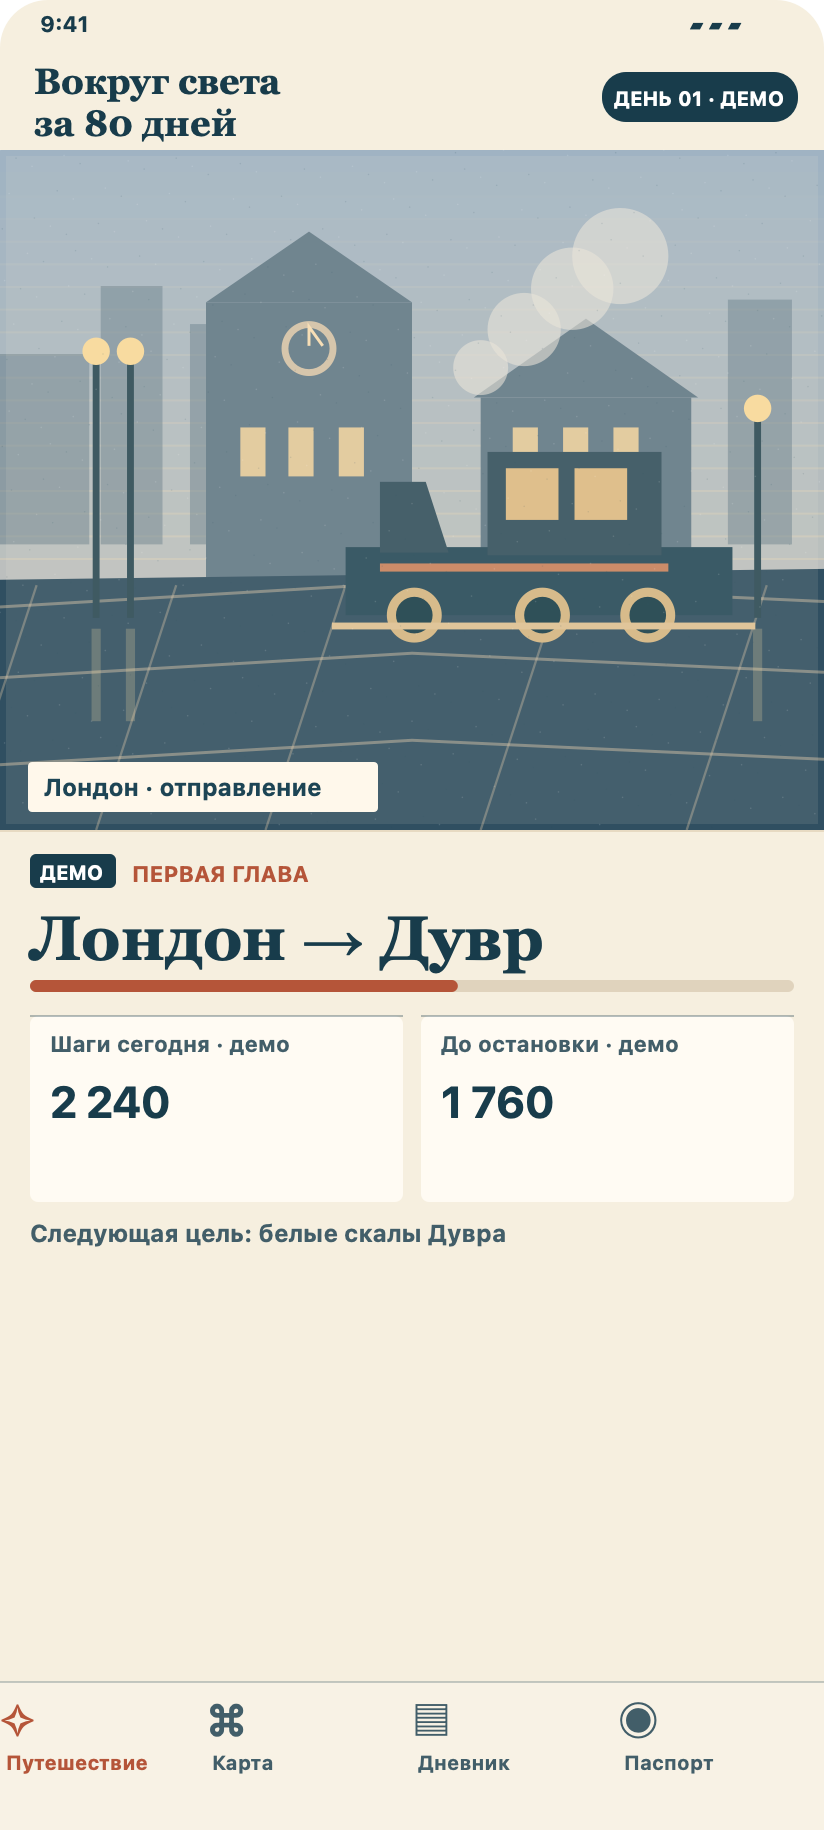
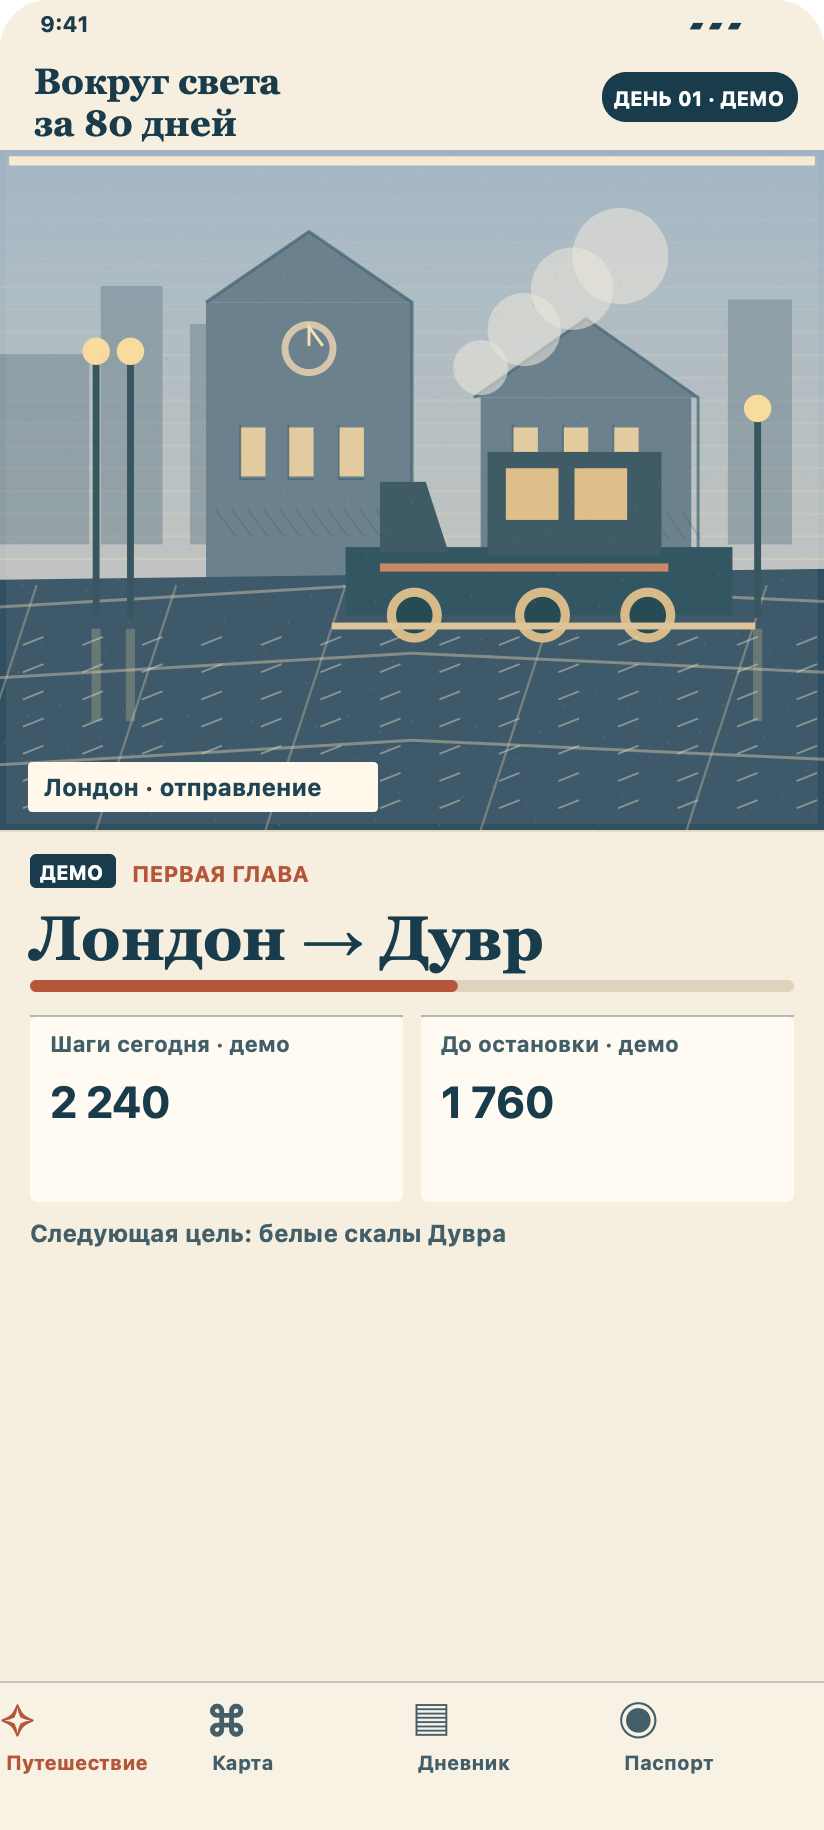
docs: distinguish London illustration treatments

Changed region(s): [[0.0, 0.0623, 1.0, 0.0934], [0.8192, 0.218, 0.8495, 0.3115], [0.4854, 0.1557, 0.5158, 0.2492]]

diff --git a/docs/design/p03/index.html b/docs/design/p03/index.html
@@ -118,25 +118,30 @@
         ${kind==='poster'?'<circle cx="279" cy="73" r="54" fill="#f9ca81" opacity=".85"/><path d="M279 4v22M279 122v22M210 73h22M326 73h22M228 22l16 16M316 108l16 16M229 123l16-16M315 38l17-17" stroke="#f8cf91" stroke-width="4" opacity=".6"/>':''}
         <path d="M0 113h39V67h31v46h16V83h27v30h34V71h21v42h28V90h20v23h34V69h25v44h26V86h22v27h37v137H0z" fill="${kind==='poster'?'#a84e3e':kind==='diorama'?'#809592':'#87909a'}" opacity=".65"/>
         <path d="M0 133h91V58h12V48h65V58h13v75h25v-29h9V89h77v15h10v29h58v66H0z" fill="${kind==='poster'?'#183c4c':kind==='diorama'?'#556a6c':'#4f6674'}" stroke="${kind==='book'?'#253f4d':'none'}" stroke-width="1.2"/>
+        ${kind==='diorama'?'<path d="M180 58l18-12v108l-18 4zM302 92l16-11v77l-16 1z" fill="#344e54"/><path d="M91 58l42-26 65 14-18 12zM207 91l47-30 64 20-16 11z" fill="#b6c6ba"/><path d="M88 155h110M207 155h110" stroke="#d6cfab" stroke-width="5"/>':''}
         <path d="M93 57l37-24 39 24M213 88l40-30 40 30" fill="none" stroke="${kind==='poster'?'#f0b16b':'#263e47'}" stroke-width="${kind==='poster'?5:3}"/>
         <circle cx="130" cy="75" r="13" fill="${kind==='poster'?'#eab66e':'#c9b697'}" stroke="#253c47" stroke-width="2"/><path d="M130 63v12l7 4" stroke="#253c47" stroke-width="2" fill="none"/>
         <g fill="${kind==='poster'?'#e6a865':'#d9bd88'}"><rect x="104" y="99" width="12" height="19"/><rect x="123" y="99" width="12" height="19"/><rect x="144" y="99" width="12" height="19"/><rect x="227" y="99" width="11" height="20"/><rect x="246" y="99" width="11" height="20"/><rect x="265" y="99" width="11" height="20"/></g>
+        ${kind==='book'?'<path d="M91 57l39-25 40 25v99M210 89l44-31 42 31v68M92 132h87M210 132h91M104 99v20h12M123 99v20h12M144 99v20h12M227 99v20h11M246 99v20h11M265 99v20h11" stroke="#294656" stroke-width="1.3" opacity=".75" fill="none"/><path d="M96 132l10 10m-3-10 10 10m-3-10 10 10m-3-10 10 10m-3-10 10 10m-3-10 10 10m-3-10 10 10m-3-10 10 10M214 134l10 10m-3-10 10 10m-3-10 10 10m-3-10 10 10m-3-10 10 10m-3-10 10 10m-3-10 10 10" stroke="#294656" stroke-width=".7" opacity=".3"/>':''}
         <path d="M0 157Q72 149 142 158t218-3v95H0z" fill="url(#ground-${kind})"/>
+        ${kind==='diorama'?'<path d="M0 157l360-6v13L0 170z" fill="#bac9b3"/><path d="M0 170l360-6v10L0 179z" fill="#536c68"/>':''}
         <path d="M0 168Q172 155 360 165M0 194Q177 178 360 188M0 227Q175 210 360 218M47 165L3 250M108 162L80 250M172 164L159 250M235 163L244 250M300 164L329 250" stroke="${kind==='poster'?'#90a8a2':'#c1b8a4'}" stroke-width="${kind==='poster'?2:1}" opacity=".5" fill="none"/>
         <g class="smoke" fill="${kind==='poster'?'#f3c38d':'#e4ded1'}" opacity=".7"><ellipse cx="212" cy="74" rx="17" ry="9"/><ellipse cx="226" cy="64" rx="16" ry="10"/><ellipse cx="243" cy="51" rx="20" ry="9"/><ellipse cx="259" cy="40" rx="22" ry="10"/></g>
         <g filter="${kind==='diorama'?`url(#shadow-${kind})`:'none'}">
+          ${kind==='diorama'?'<rect x="143" y="144" width="184" height="36" rx="10" fill="#0f3035" opacity=".4"/><rect x="151" y="140" width="169" height="6" rx="3" fill="#a9c4b4"/>':''}
           <path d="M151 148h169v25H151z" fill="url(#train-${kind})" stroke="${kind==='book'?'#203947':'none'}" stroke-width="2"/>
           <path d="M166 147v-25h20l10 25M213 147v-37h69l14 37" fill="url(#train-${kind})" stroke="${kind==='book'?'#203947':'none'}" stroke-width="2"/>
           <rect x="221" y="117" width="23" height="19" fill="#d4ad70"/><rect x="251" y="117" width="23" height="19" fill="#d4ad70"/><rect x="166" y="151" width="126" height="3" fill="#b96d4a"/>
+          ${kind==='diorama'?'<path d="M320 148l8-6v27l-8 4z" fill="#102f38"/><path d="M220 111h67" stroke="#819b90" stroke-width="4"/><path d="M158 161h155" stroke="#73968e" stroke-width="3"/>':''}
           <circle cx="181" cy="171" r="12" fill="#142f39" stroke="#c9a86f" stroke-width="4"/><circle cx="237" cy="171" r="12" fill="#142f39" stroke="#c9a86f" stroke-width="4"/><circle cx="283" cy="171" r="12" fill="#142f39" stroke="#c9a86f" stroke-width="4"/>
           <path d="M146 175h185" stroke="#d5b581" stroke-width="4"/>
         </g>
         <g stroke="#203a43" stroke-width="4" fill="none"><path d="M42 74v99M55 76v95M332 94v79"/><path d="M36 75q7-13 13 0M49 75q7-13 13 0M326 95q7-13 13 0"/></g>
         <g fill="#f4cf83"><circle cx="42" cy="76" r="6"/><circle cx="55" cy="76" r="6"/><circle cx="332" cy="96" r="6"/></g>
         <g fill="#f2d5a2" opacity=".35"><ellipse cx="43" cy="197" rx="6" ry="21"/><ellipse cx="55" cy="201" rx="5" ry="17"/><ellipse cx="333" cy="194" rx="7" ry="20"/><path d="M221 185l12 62h-8l-12-62z"/></g>
-        ${kind==='book'?'<rect width="360" height="250" fill="url(#grain-book)" opacity=".55"/><path d="M3 4h354v242H3z" stroke="#ece0c9" stroke-width="6" fill="none"/>':''}
+        ${kind==='book'?'<path d="M8 185l9-3m17 9 9-3m16 2 9-3m17 9 9-3m16 2 9-3m17 9 9-3m16 2 9-3m17 9 9-3m16 2 9-3m17 9 9-3m16 2 9-3m17 9 9-3m16 2 9-3" stroke="#d7d0ba" opacity=".65"/><rect width="360" height="250" fill="url(#grain-book)" opacity=".55"/><path d="M3 4h354v242H3z" stroke="#ece0c9" stroke-width="6" fill="none"/>':''}
         ${kind==='poster'?'<path d="M0 2h360M0 247h360" stroke="#f3d9ab" stroke-width="5"/>':''}
-        ${kind==='diorama'?'<path d="M0 240q180-18 360 0v10H0" fill="#243e43" opacity=".55"/>':''}
+        ${kind==='diorama'?'<path d="M0 214l77-10-26 46H0zM360 207l-58 6 22 37h36z" fill="#294a48"/><rect x="25" y="198" width="19" height="23" rx="3" fill="#9f6648"/><rect x="29" y="195" width="11" height="5" rx="1" fill="#d0a073"/><path d="M43 215l9 23" stroke="#152f35" stroke-width="3"/><g fill="#718c70"><circle cx="19" cy="228" r="8"/><circle cx="52" cy="228" r="8"/><circle cx="307" cy="228" r="8"/><circle cx="338" cy="228" r="8"/></g><g fill="#87a586"><circle cx="24" cy="219" r="6"/><circle cx="57" cy="219" r="6"/><circle cx="312" cy="219" r="6"/><circle cx="343" cy="219" r="6"/></g>':''}
       </svg>`;
     const icons = [
       '<path d="M3 17l5-10 5 5 4-8 4 13H3z"/><path d="M4 20h16"/>',

diff --git a/docs/design/p03/render-previews.swift b/docs/design/p03/render-previews.swift
@@ -22,22 +22,53 @@ func scene(_ t:Theme,_ x:CGFloat,_ y:CGFloat,_ w:CGFloat,_ h:CGFloat) {
  if t.flat {dot(X(277),Y(70),52*s,c(0xf9ca81))}
  for (bx,bw,bh) in [(0,39,70),(44,27,95),(83,21,81),(318,28,90)] {rect(X(CGFloat(bx)),Y(CGFloat(145-bh)),CGFloat(bw)*s,CGFloat(bh)*k,c(t.building,0.5))}
  rect(X(90),Y(56),90*s,101*k,c(t.building)); poly([NSPoint(x:X(90),y:Y(56)),NSPoint(x:X(135),y:Y(30)),NSPoint(x:X(180),y:Y(56))],c(t.building)); rect(X(210),Y(91),92*s,67*k,c(t.building)); poly([NSPoint(x:X(207),y:Y(91)),NSPoint(x:X(256),y:Y(62)),NSPoint(x:X(305),y:Y(91))],c(t.building))
+ if t.name == "diorama" {
+  poly([NSPoint(x:X(180),y:Y(56)),NSPoint(x:X(197),y:Y(45)),NSPoint(x:X(197),y:Y(153)),NSPoint(x:X(180),y:Y(157))],c(0x364f56))
+  poly([NSPoint(x:X(90),y:Y(56)),NSPoint(x:X(135),y:Y(30)),NSPoint(x:X(197),y:Y(45)),NSPoint(x:X(180),y:Y(56))],c(0xb6c6ba))
+  poly([NSPoint(x:X(302),y:Y(91)),NSPoint(x:X(317),y:Y(81)),NSPoint(x:X(317),y:Y(157)),NSPoint(x:X(302),y:Y(158))],c(0x344e54))
+  poly([NSPoint(x:X(207),y:Y(91)),NSPoint(x:X(256),y:Y(62)),NSPoint(x:X(317),y:Y(81)),NSPoint(x:X(302),y:Y(91))],c(0xa8bcb5))
+  rect(X(88),Y(154),110*s,5*k,c(0xd6cfab),2*s);rect(X(207),Y(153),110*s,5*k,c(0xd6cfab),2*s)
+ }
  dot(X(135),Y(73),12*s,c(0xc9b697)); dot(X(135),Y(73),9*s,c(t.building)); line([NSPoint(x:X(135),y:Y(72)),NSPoint(x:X(135),y:Y(65)),NSPoint(x:X(141),y:Y(72))],c(0xf3d5a3),1.3*s)
  for wx in [105,126,148,224,246,268] {rect(X(CGFloat(wx)),Y(102),11*s,18*k,c(t.flat ? 0xe6a865:0xd9bd88))}
+ if t.name == "book" {
+  let ink=c(0x294656,0.7)
+  line([NSPoint(x:X(90),y:Y(56)),NSPoint(x:X(135),y:Y(30)),NSPoint(x:X(180),y:Y(56)),NSPoint(x:X(180),y:Y(157))],ink,1.4*s)
+  line([NSPoint(x:X(207),y:Y(91)),NSPoint(x:X(256),y:Y(62)),NSPoint(x:X(305),y:Y(91)),NSPoint(x:X(305),y:Y(158))],ink,1.3*s)
+  for hx in stride(from:94,through:173,by:7) {line([NSPoint(x:X(CGFloat(hx)),y:Y(132)),NSPoint(x:X(CGFloat(hx+9)),y:Y(142))],c(0x203e4c,0.28),0.75*s)}
+  for hx in stride(from:214,through:298,by:7) {line([NSPoint(x:X(CGFloat(hx)),y:Y(133)),NSPoint(x:X(CGFloat(hx+8)),y:Y(143))],c(0x203e4c,0.26),0.75*s)}
+  for wx in [105,126,148,224,246,268] {line([NSPoint(x:X(CGFloat(wx)),y:Y(101)),NSPoint(x:X(CGFloat(wx)),y:Y(121)),NSPoint(x:X(CGFloat(wx+11)),y:Y(121))],ink,0.8*s)}
+ }
  poly([NSPoint(x:X(0),y:Y(158)),NSPoint(x:X(360),y:Y(154)),NSPoint(x:X(360),y:Y(250)),NSPoint(x:X(0),y:Y(250))],c(t.road))
+ if t.name == "diorama" {
+  poly([NSPoint(x:X(0),y:Y(158)),NSPoint(x:X(360),y:Y(151)),NSPoint(x:X(360),y:Y(164)),NSPoint(x:X(0),y:Y(170))],c(0xbac9b3))
+  poly([NSPoint(x:X(0),y:Y(170)),NSPoint(x:X(360),y:Y(164)),NSPoint(x:X(360),y:Y(174)),NSPoint(x:X(0),y:Y(179))],c(0x536c68))
+ }
  for yy in [168,194,226] {line([NSPoint(x:X(0),y:Y(CGFloat(yy))),NSPoint(x:X(180),y:Y(CGFloat(yy-9))),NSPoint(x:X(360),y:Y(CGFloat(yy-2)))],c(0xd1b894,0.46),1.3*s)}
  for bx in [16,77,151,245,335] {line([NSPoint(x:X(CGFloat(bx)),y:Y(160)),NSPoint(x:X(CGFloat(bx)-35),y:Y(250))],c(0xd1b894,0.36),1*s)}
  for (lx,ly) in [(42,74),(57,74),(331,95)] {line([NSPoint(x:X(CGFloat(lx)),y:Y(CGFloat(ly))),NSPoint(x:X(CGFloat(lx)),y:Y(172))],c(0x203a43),3*s);dot(X(CGFloat(lx)),Y(CGFloat(ly)),6*s,c(0xf5d289)); rect(X(CGFloat(lx)-2),Y(176),4*s,34*k,c(0xf5d289,0.23))}
  for (sx,sy,rr) in [(210,80,12),(229,66,16),(250,51,18),(271,39,21)] {dot(X(CGFloat(sx)),Y(CGFloat(sy)),CGFloat(rr)*s,c(t.flat ? 0xf3c38d:0xe4ded1,0.58))}
- if t.name == "diorama" {rect(X(148),Y(144),174*s,32*k,c(0x193b3d,0.28),8*s)}
+ if t.name == "diorama" {rect(X(143),Y(146),185*s,36*k,c(0x0f3035,0.44),10*s);rect(X(151),Y(140),169*s,6*k,c(0xa9c4b4),3*s)}
  rect(X(151),Y(146),169*s,25*k,c(0x1d3947),t.name == "diorama" ? 5*s:0)
  rect(X(213),Y(111),76*s,38*k,c(0x263f4b),t.name == "diorama" ? 4*s:0)
  poly([NSPoint(x:X(166),y:Y(148)),NSPoint(x:X(166),y:Y(122)),NSPoint(x:X(186),y:Y(122)),NSPoint(x:X(196),y:Y(148))],c(0x263f4b))
  for wx in [221,251] {rect(X(CGFloat(wx)),Y(117),23*s,19*k,c(0xd4ad70))}
  rect(X(166),Y(152),126*s,3*k,c(0xb96d4a))
+ if t.name == "diorama" {poly([NSPoint(x:X(320),y:Y(146)),NSPoint(x:X(328),y:Y(141)),NSPoint(x:X(328),y:Y(169)),NSPoint(x:X(320),y:Y(171))],c(0x102f38));rect(X(219),Y(111),67*s,4*k,c(0x819b90),2*s);rect(X(157),Y(159),156*s,3*k,c(0x73968e),1*s)}
  for cx in [181,237,283] {dot(X(CGFloat(cx)),Y(171),12*s,c(0xc9a86f));dot(X(CGFloat(cx)),Y(171),8*s,c(0x142f39))}
  line([NSPoint(x:X(145),y:Y(175)),NSPoint(x:X(330),y:Y(175))],c(0xd5b581),3*s)
- if t.name == "book" {for i in 0..<700 {let a=(i*53)%360;let b=(i*97)%250;dot(X(CGFloat(a)),Y(CGFloat(b)),0.35*s,c(i%2==0 ? 0xffffff:0x173543,0.14))}; rect(x+3,y+3,w-6,h-6,c(0xf4ebd8,0.1))}
+ if t.name == "diorama" {
+  poly([NSPoint(x:X(0),y:Y(214)),NSPoint(x:X(77),y:Y(204)),NSPoint(x:X(51),y:Y(250)),NSPoint(x:X(0),y:Y(250))],c(0x294a48))
+  poly([NSPoint(x:X(360),y:Y(207)),NSPoint(x:X(302),y:Y(213)),NSPoint(x:X(324),y:Y(250)),NSPoint(x:X(360),y:Y(250))],c(0x294a48))
+  rect(X(25),Y(198),19*s,23*k,c(0x9f6648),3*s);rect(X(29),Y(195),11*s,5*k,c(0xd0a073),1*s)
+  line([NSPoint(x:X(43),y:Y(215)),NSPoint(x:X(52),y:Y(238))],c(0x152f35),3*s)
+  for px in [19,52,307,338] {dot(X(CGFloat(px)),Y(228),8*s,c(0x718c70));dot(X(CGFloat(px+5)),Y(219),6*s,c(0x87a586))}
+ }
+ if t.name == "book" {
+  for i in 0..<700 {let a=(i*53)%360;let b=(i*97)%250;dot(X(CGFloat(a)),Y(CGFloat(b)),0.35*s,c(i%2==0 ? 0xffffff:0x173543,0.14))}
+  for yy in stride(from:182,through:242,by:10) {for xx in stride(from:10,through:350,by:26) {line([NSPoint(x:X(CGFloat(xx)),y:Y(CGFloat(yy))),NSPoint(x:X(CGFloat(xx+9)),y:Y(CGFloat(yy-3)))],c(0xd7d0ba,0.46),0.8*s)}}
+  line([NSPoint(x:X(4),y:Y(4)),NSPoint(x:X(356),y:Y(4))],c(0xf3e5c8),4*s);rect(x+3,y+3,w-6,h-6,c(0xf4ebd8,0.07))
+ }
  if t.flat {rect(x,y+2,w,4*k,c(0xf3d9ab));rect(x,y+h-5*k,w,4*k,c(0xf3d9ab))}
 }
 func phone(_ t:Theme,_ w:Int,_ h:Int,_ large:Bool=false) throws {

diff --git a/docs/design/p03/README.md b/docs/design/p03/README.md
@@ -2,7 +2,7 @@
 
 Статус: **три предложения для выбора, визуальное направление не утверждено**. Это один экран в трёх трактовках, без реализации в Android-коде. [Интерактивный прототип](index.html) переключает размер телефона, крупный шрифт и уменьшение анимации. Статичные превью находятся в [`exports/`](exports/); файлы `*-360x640.png` показывают сравнение на компактном телефоне, `*-412x915.png` — на высоком, `*-360x640-large.png` — стресс-тест крупного шрифта.
 
-Во всех вариантах одна композиция: лондонская мокрая мостовая, фонари, паровой поезд у вокзала; затем участок «Лондон → Дувр», шаги сегодня, остаток до остановки и нижняя навигация «Путешествие · Карта · Дневник · Паспорт». UI-текст и цифры остаются настоящими элементами прототипа, а не частью сцены. Числа **только демонстрационные**: 2 240 шагов сегодня + 1 760 до Дувра = 4 000 шагов в демонстрации. Они иллюстрируют первый порог Дувра из `docs/ROUTE.md` ветки F01 и не меняют его; глава Лондон → Суэц остаётся 49 000 шагов. Живые данные не подключены. Отдельная метка «Демо» видна рядом с показателями.
+Во всех вариантах одна композиция: лондонская мокрая мостовая, фонари, паровой поезд у вокзала; затем участок «Лондон → Дувр», шаги сегодня, остаток до остановки и нижняя навигация «Путешествие · Карта · Дневник · Паспорт». Язык самой сцены различается: книжная версия использует чернильные контуры, штриховку мостовой и бумажное зерно; плакат — плоские силуэты и крупный солнечный диск; диорама — боковые грани зданий, объём поезда с тенью, ближний край платформы и предметы переднего плана. UI-текст и цифры остаются настоящими элементами прототипа, а не частью сцены. Числа **только демонстрационные**: 2 240 шагов сегодня + 1 760 до Дувра = 4 000 шагов в демонстрации. Они иллюстрируют первый порог Дувра из `docs/ROUTE.md` ветки F01 и не меняют его; глава Лондон → Суэц остаётся 49 000 шагов. Живые данные не подключены. Отдельная метка «Демо» видна рядом с показателями.
 
 | Направление | Сильные стороны | Риски | Дальнейшие регионы и транспорт |
 |---|---|---|---|
